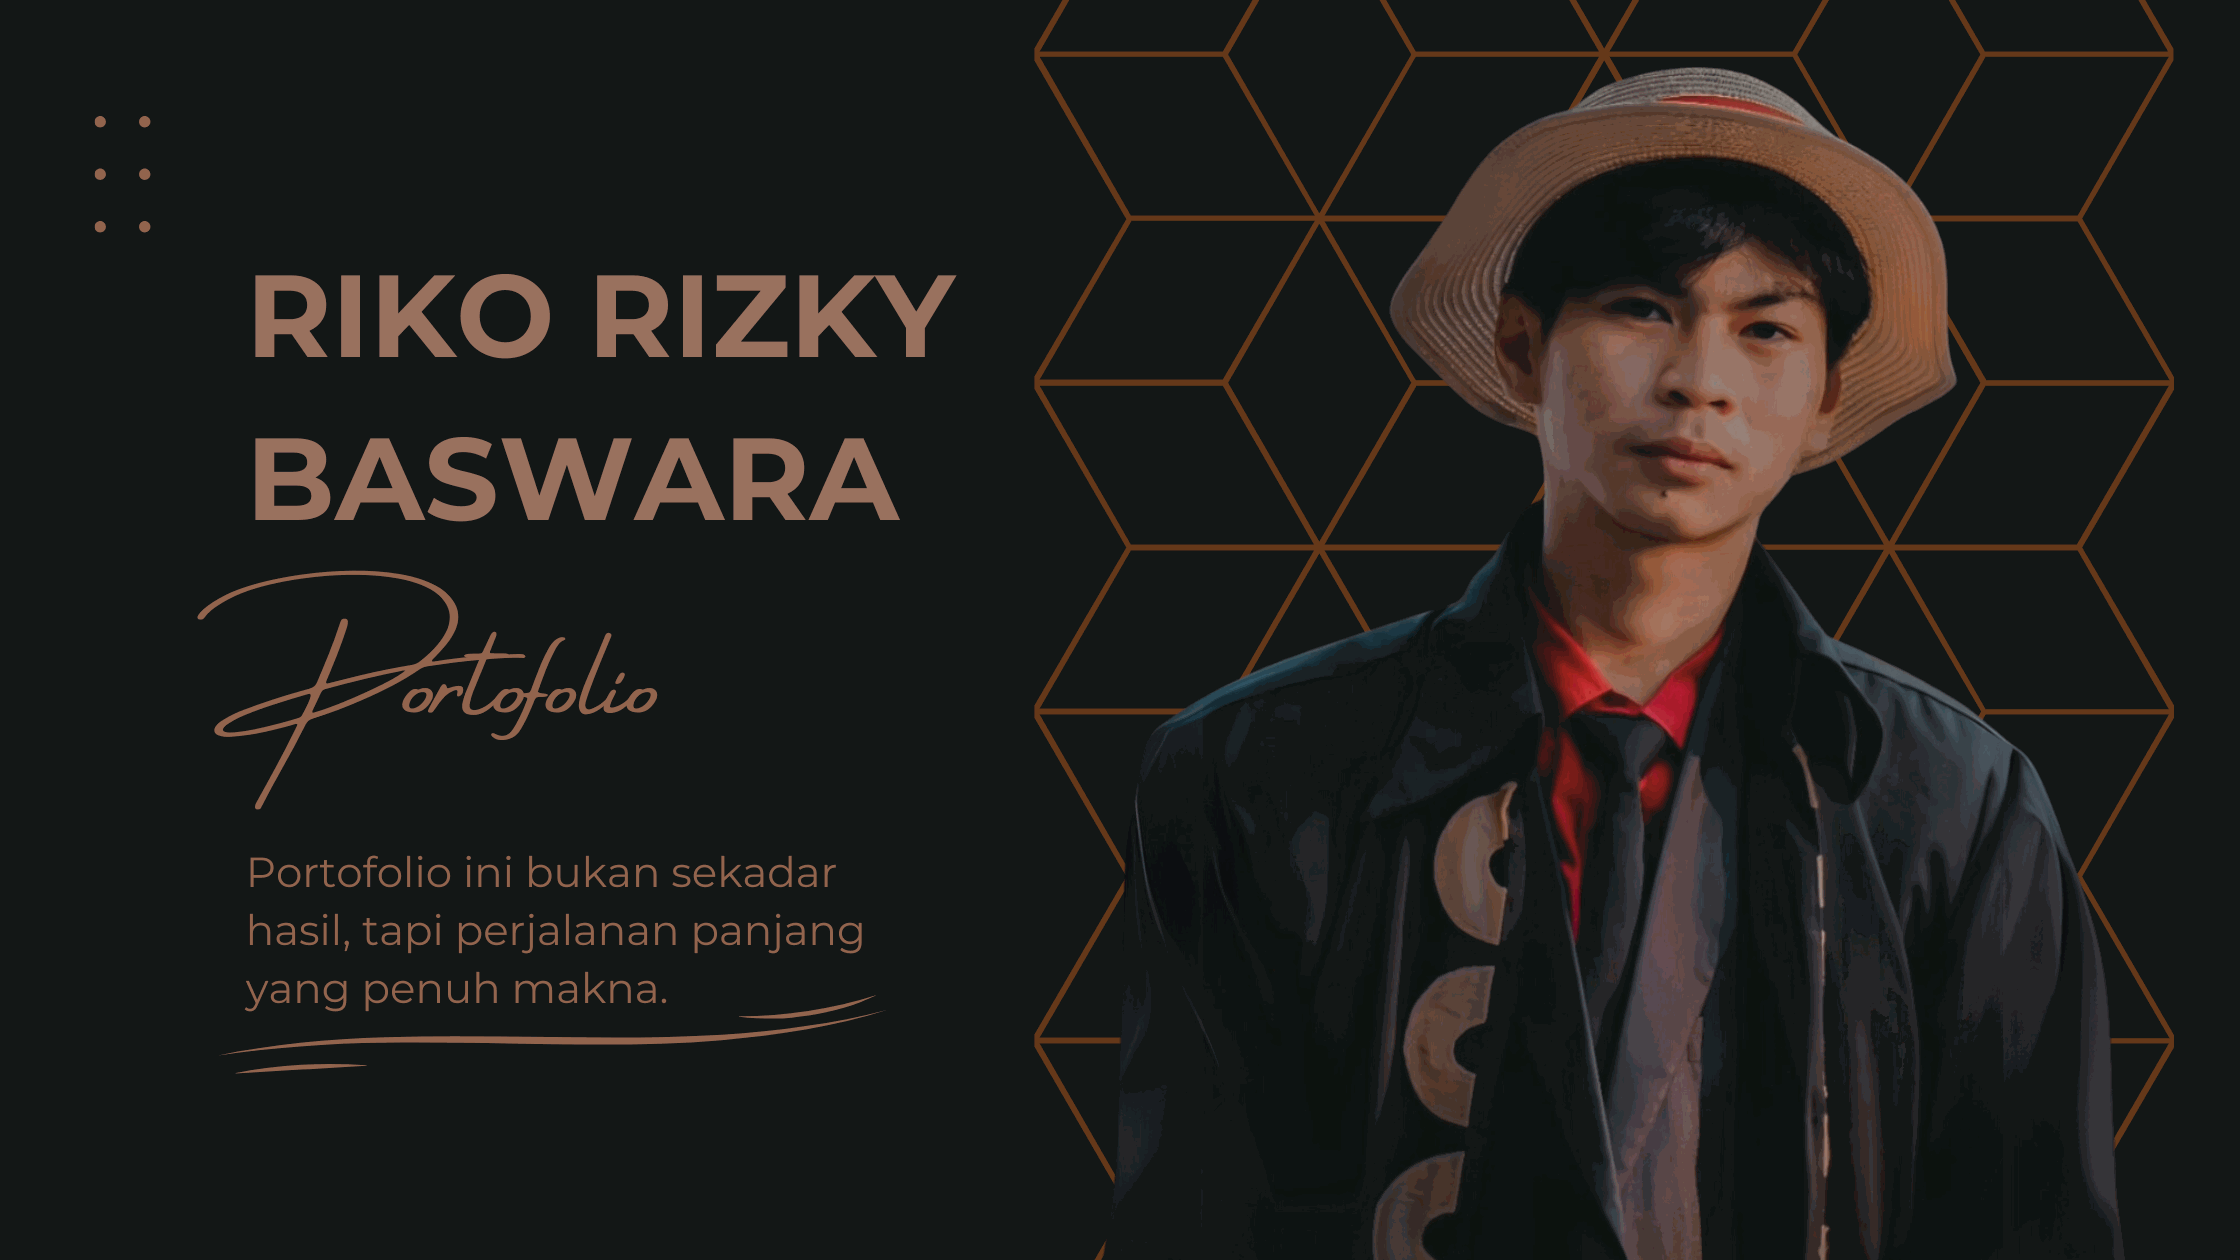
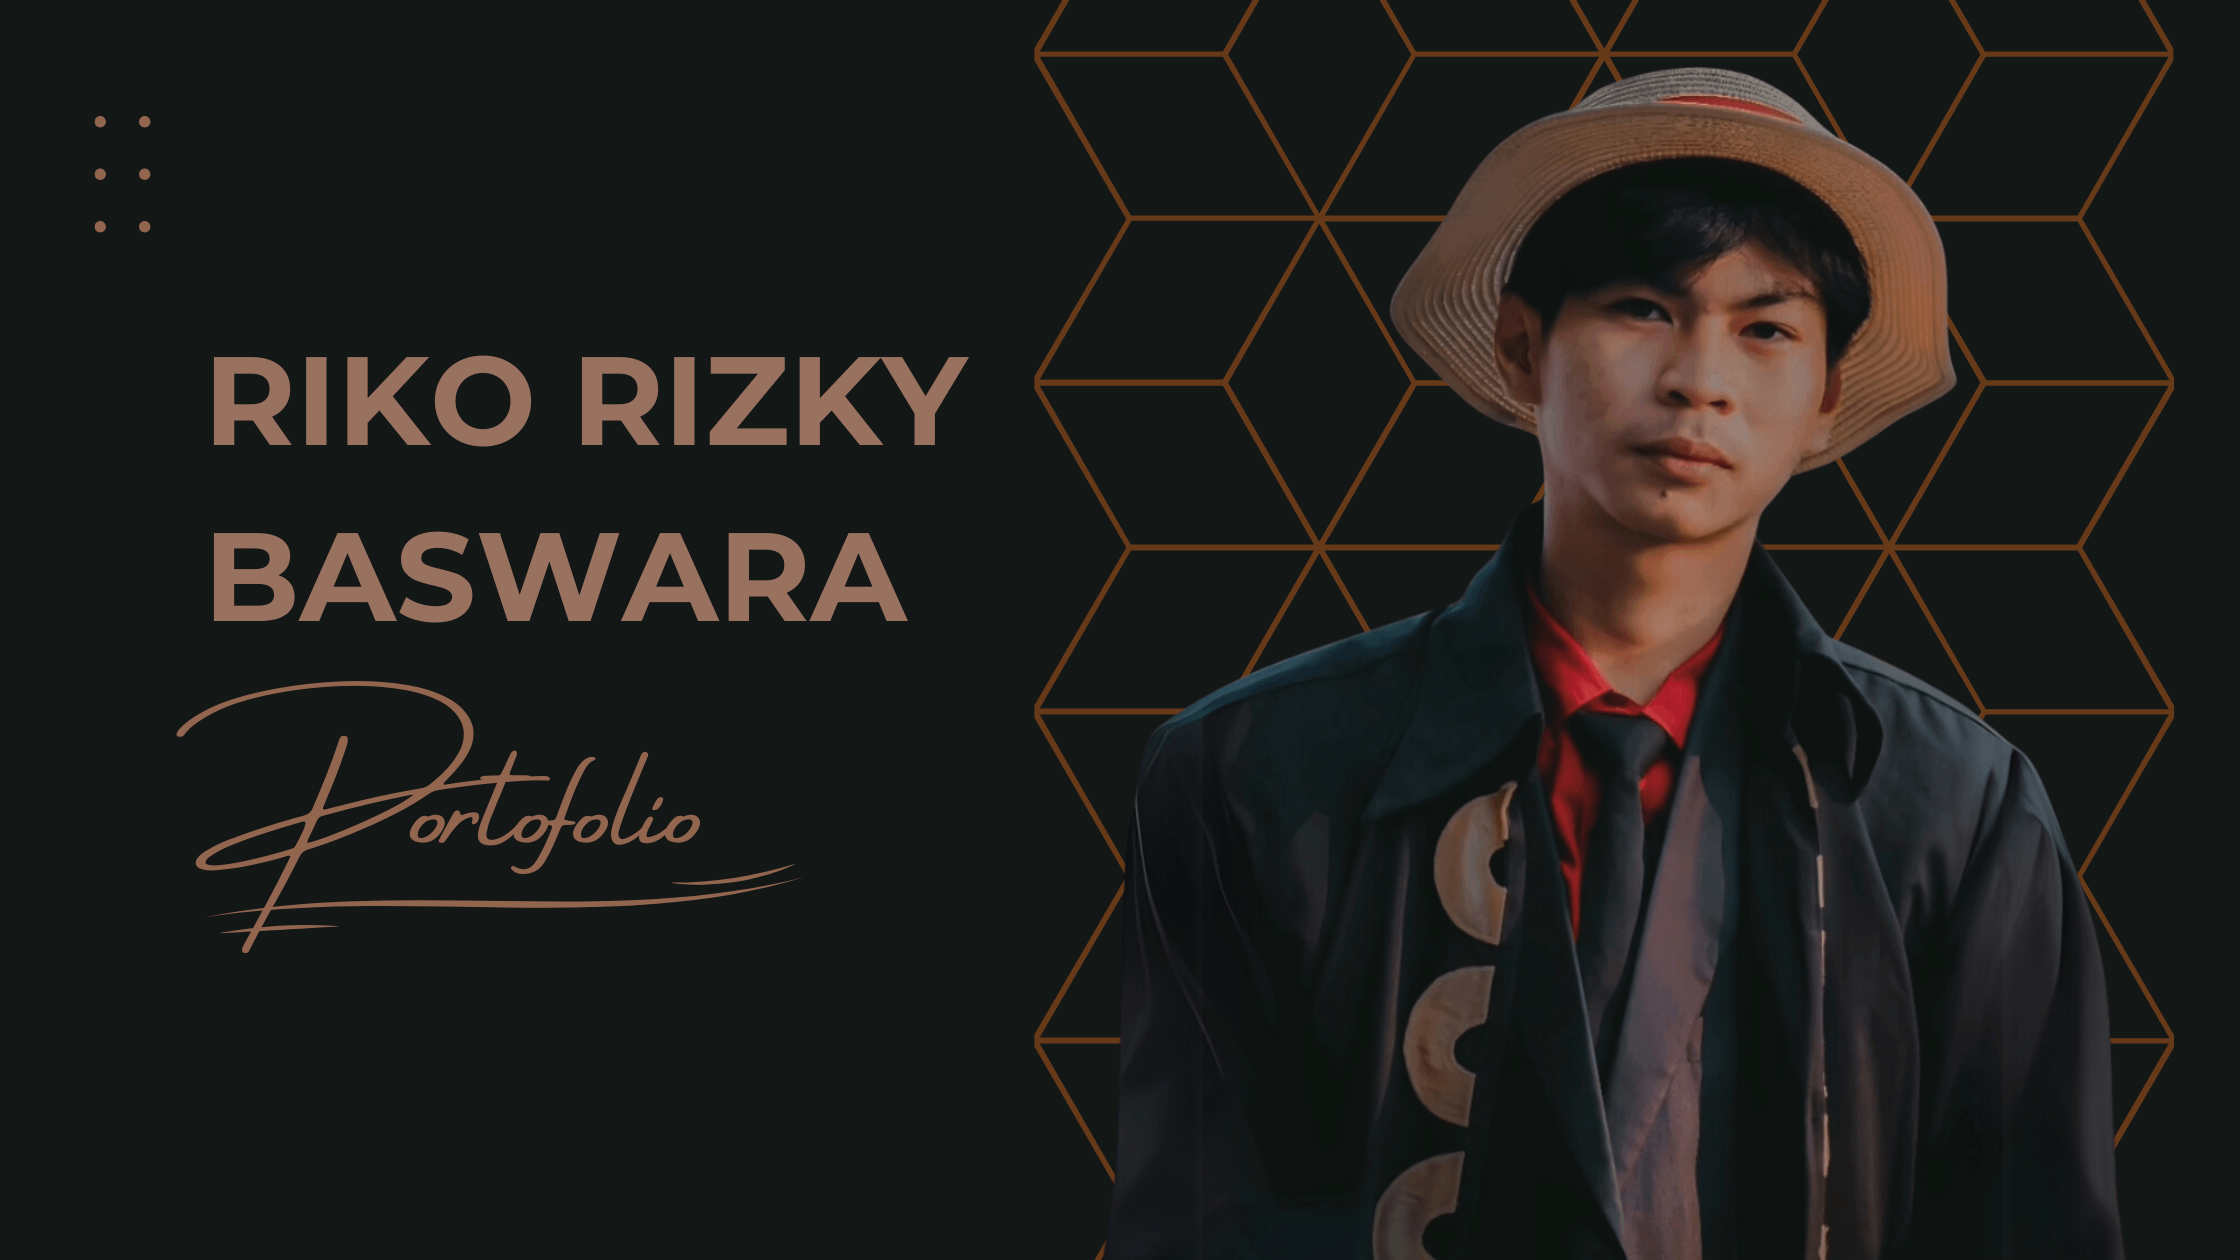
landing

Changed region(s): [[0.0625, 0.2167, 0.4375, 0.7429], [0.0938, 0.7738, 0.375, 0.8667]]

diff --git a/dist/index.html b/dist/index.html
@@ -252,7 +252,7 @@
   <link rel="stylesheet" href="https://cdnjs.cloudflare.com/ajax/libs/font-awesome/6.5.0/css/all.min.css" />
   <link rel="stylesheet" href="https://fonts.googleapis.com/css2?family=Inter:opsz,wght@14..32,300;400;500;600;700;800&display=swap" />
   <link rel="icon" href="/favicon.webp" type="image/webp">
-  <script type="module" crossorigin src="/assets/index-CdU0IgQD.js"></script>
+  <script type="module" crossorigin src="/assets/index-rB8FrY9t.js"></script>
   <link rel="modulepreload" crossorigin href="/assets/vendor-react-IjWUI1Tn.js">
   <link rel="modulepreload" crossorigin href="/assets/vendor-gsap-SFc2wnMY.js">
   <link rel="modulepreload" crossorigin href="/assets/vendor-ui-B7ePjMN3.js">

diff --git a/src/components/LandingPage.jsx b/src/components/LandingPage.jsx
@@ -46,11 +46,11 @@ const LandingPage = () => {
         <picture>
           <source
             media="(min-width: 768px)"
-            srcSet="/img/landingpage-hero.webp"
+            srcSet="/img/LandingPage.webp"
             type="image/webp"
           />
           <img
-            src="/img/mobile-hero.webp"
+            src="/img/Mobile.webp"
             alt="Hero background portfolio Riko Rizky Baswara"
             fetchPriority="high"
             decoding="async"
